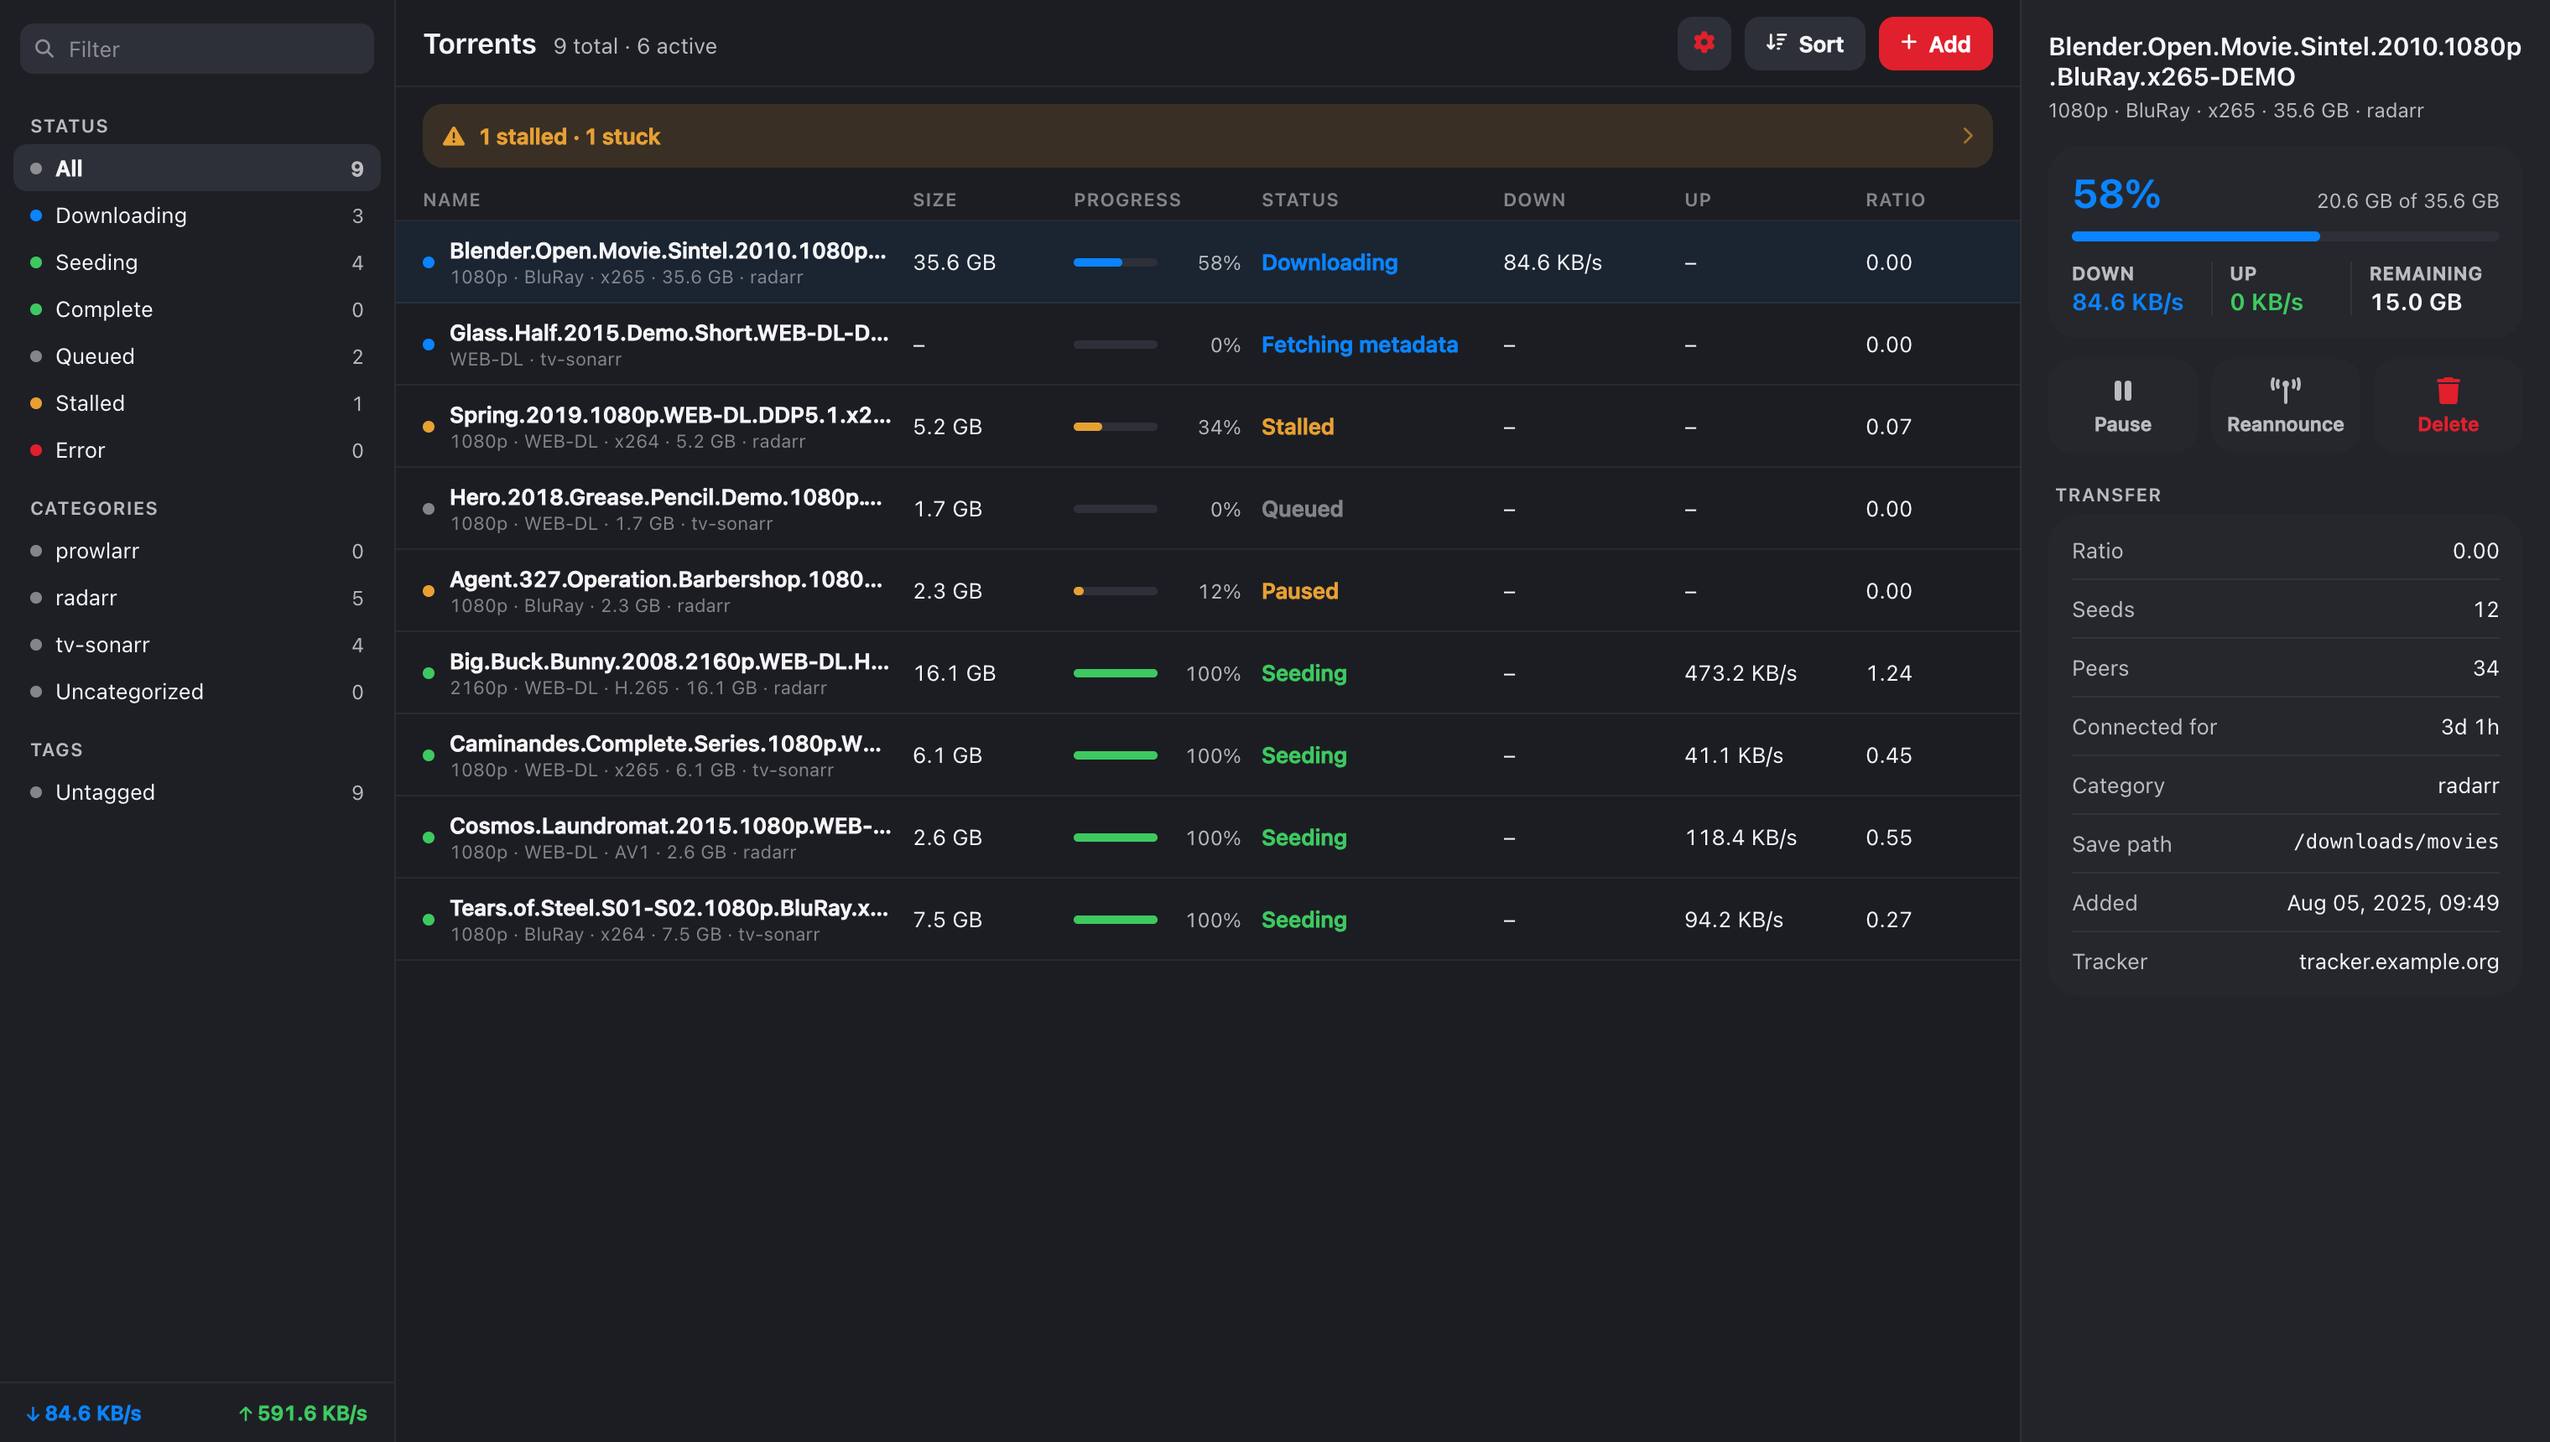
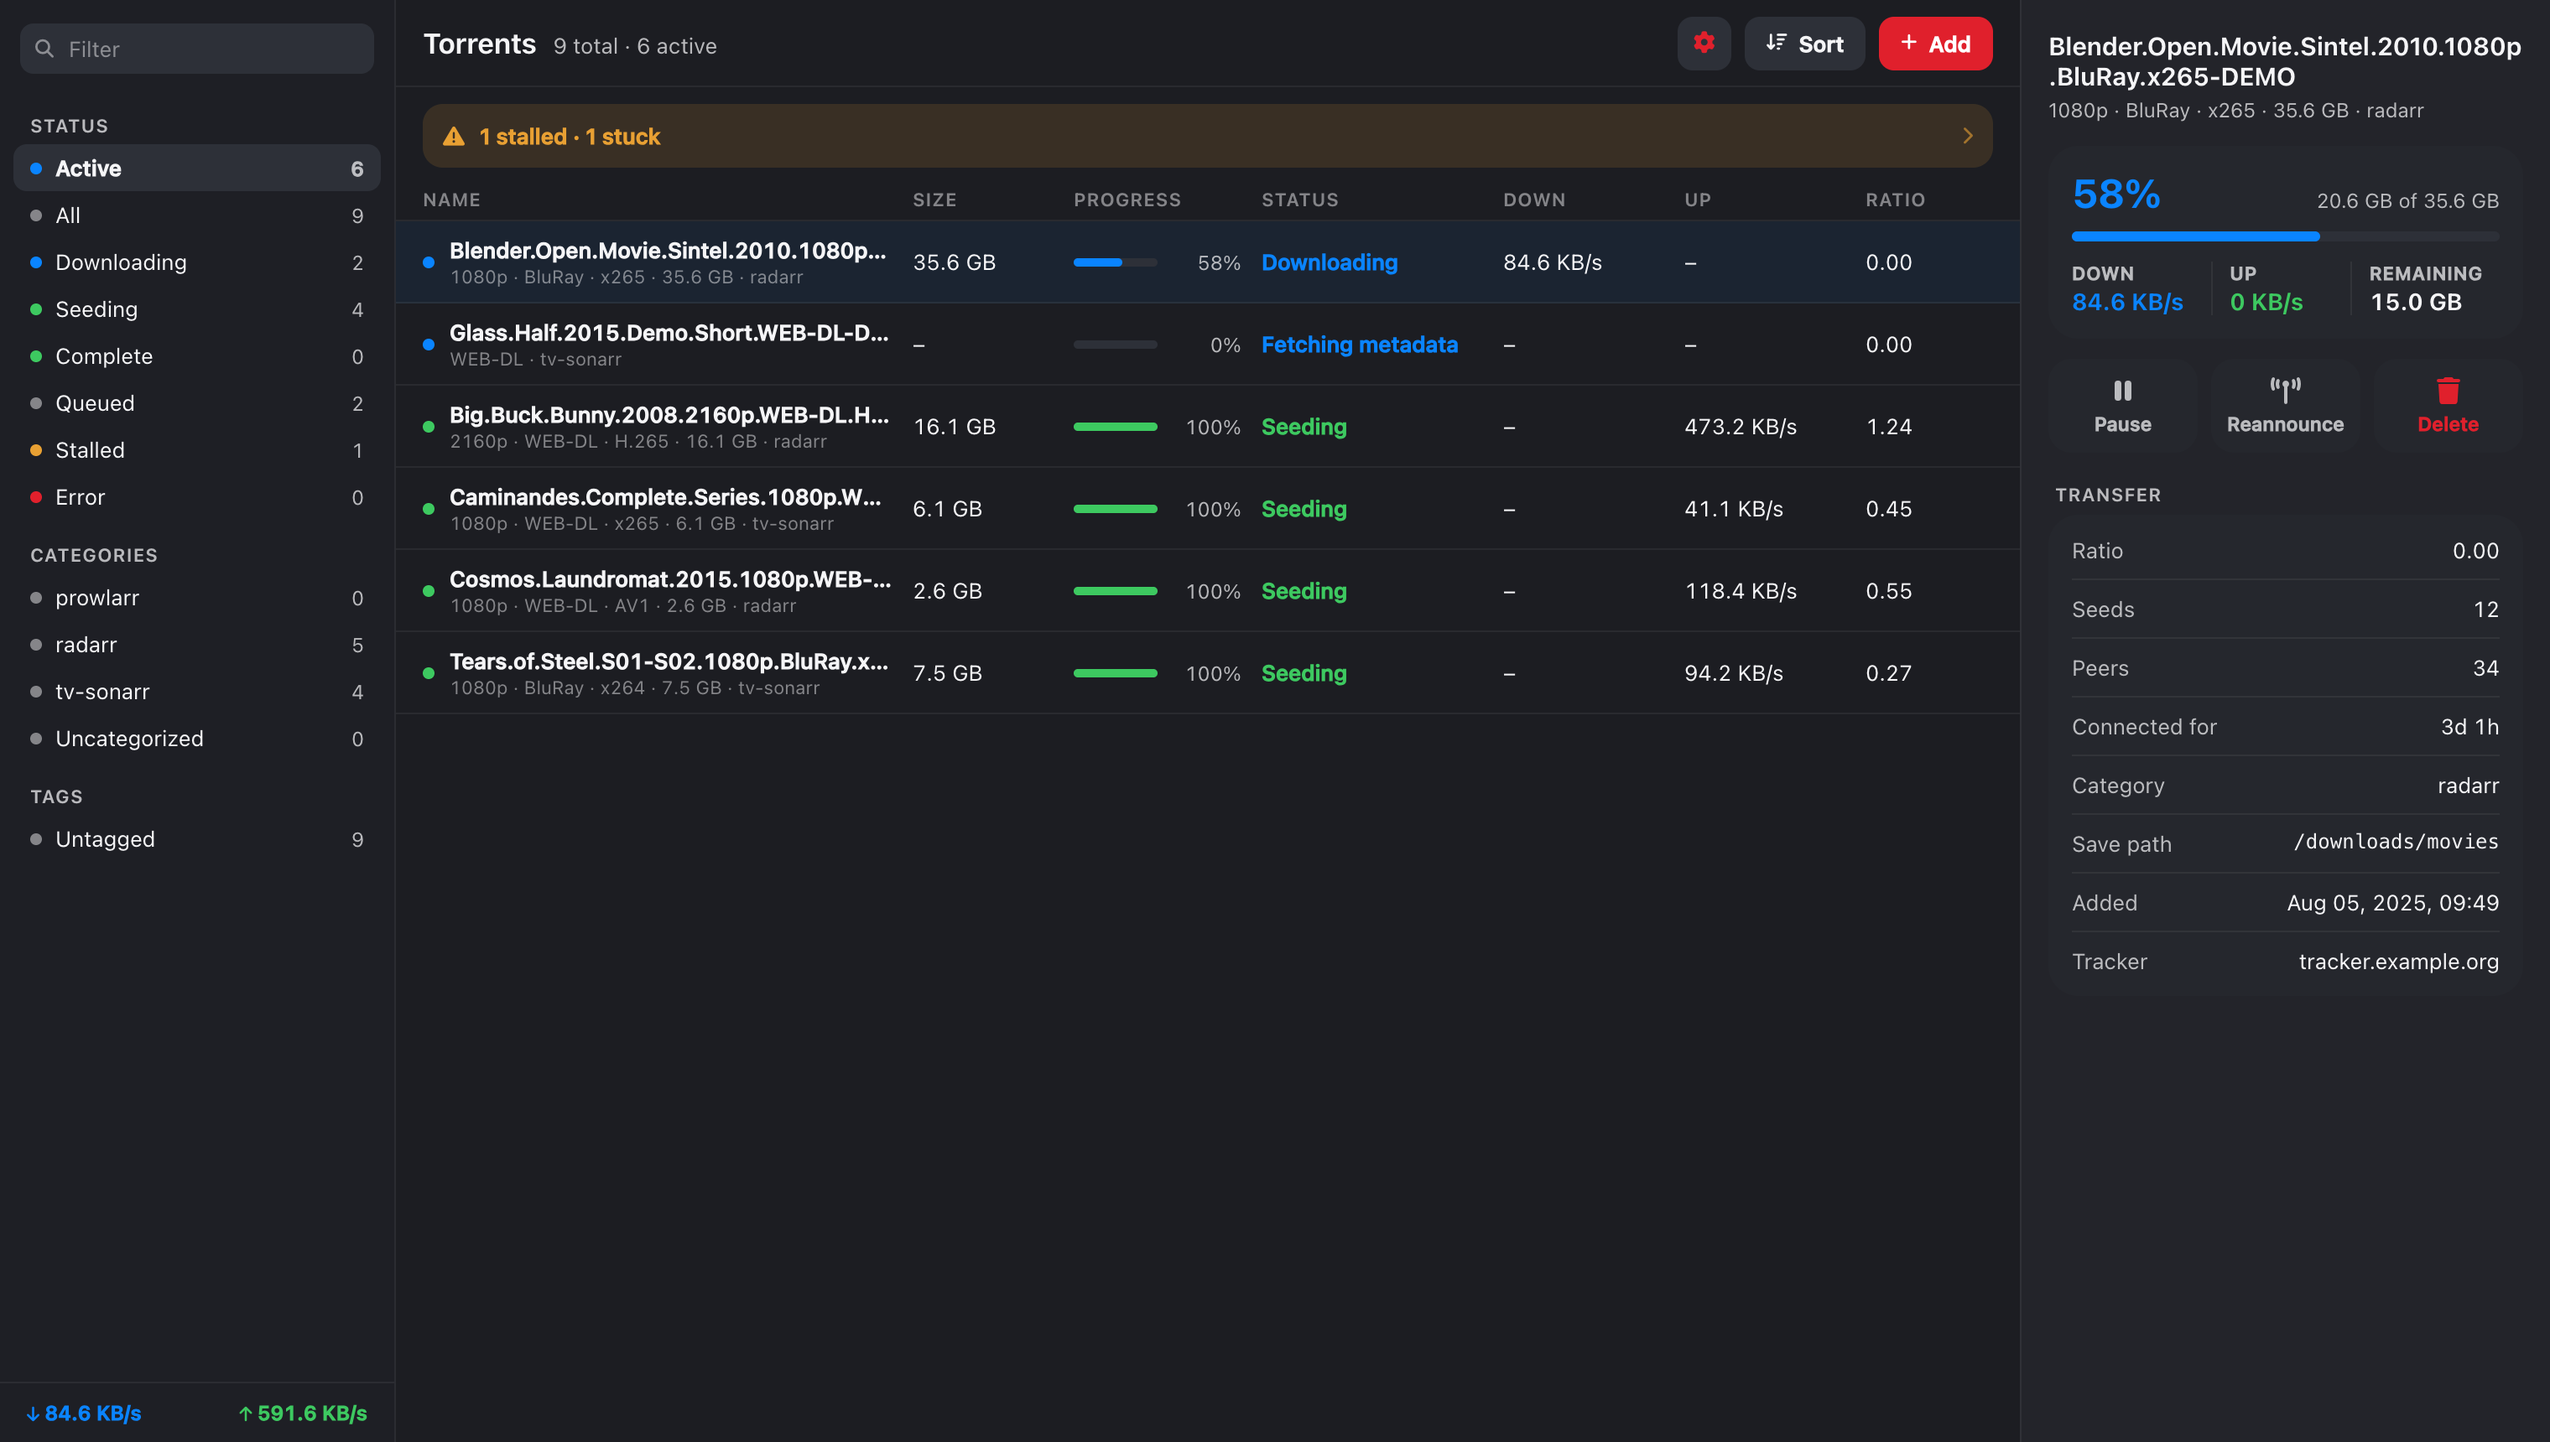
Keep metadata torrents out of the Downloading filter, default desktop to Active
- 'Fetching metadata' counts as Active but no longer as Downloading: nothing is
  being downloaded yet, so it does not belong in a list of downloads
- The desktop sidebar had no Active entry at all and started on All. It now
  leads with Active and selects it by default, matching the phone layout
- Screenshot script kills a leftover Chrome on its debug port first — attaching
  to one silently reused its localStorage and produced a stale Cleanuparr state
  in the committed screenshots

diff --git a/src/app/app.component.ts b/src/app/app.component.ts
@@ -19,7 +19,7 @@ const SORT_LABEL: Record<Sort, string> = {
 const FILTER_FN: Record<Filter, (t: Torrent) => boolean> = {
   all: () => true,
   active: t => t.dlspeed > 0 || t.upspeed > 0 || t.state === 'downloading' || t.state === 'metadata',
-  down: t => t.state === 'downloading' || t.state === 'metadata' || t.state === 'stalled',
+  down: t => t.state === 'downloading' || t.state === 'stalled',
   done: t => t.state === 'completed' || t.state === 'seeding',
   paused: t => t.state === 'queued' || t.state === 'paused',
   seeding: t => t.state === 'seeding',
@@ -71,7 +71,7 @@ export class AppComponent {
   readonly NO_CAT = NO_CAT;
   readonly NO_TAG = NO_TAG;
   readonly filters: Filter[] = ['active', 'all', 'down', 'done', 'paused'];
-  readonly sideFilters: Filter[] = ['all', 'down', 'seeding', 'completed', 'paused', 'stalled', 'error'];
+  readonly sideFilters: Filter[] = ['active', 'all', 'down', 'seeding', 'completed', 'paused', 'stalled', 'error'];
   readonly sorts: Sort[] = ['status', 'name', 'size', 'progress'];
   readonly themes: Theme[] = ['light', 'dark', 'auto'];
   readonly THEME_LABEL: Record<Theme, string> = { light: 'Light', dark: 'Dark', auto: 'Automatic' };
@@ -90,7 +90,7 @@ export class AppComponent {
   readonly closing = signal(false);            // push-screen exit animation
   readonly dtab = signal<'info' | 'files' | 'trackers'>('info');
   readonly filter = signal<Filter>('active');
-  readonly sideFilter = signal<Filter>('all');
+  readonly sideFilter = signal<Filter>('active');
   readonly catFilter = signal<string | null>(null);   // desktop sidebar
   readonly tagFilter = signal<string | null>(null);
   readonly sort = signal<Sort>('status');

diff --git a/design/README.md b/design/README.md
@@ -166,7 +166,8 @@ qBittorrent's `metaDL` into `downloading` made a torrent with no size, no peers 
 progress look like a healthy download):
 * `downloading` → `Downloading` (blue) + `↓ 84.6 KB/s · ETA 4d 8h`
 * `metadata` → `Fetching metadata` (blue) + `for 3d 1h` — no size is known yet, so the
-  tech line omits it and the desktop table shows `–`
+  tech line omits it and the desktop table shows `–`. It counts as *Active* but not as
+  *Downloading*: nothing is being downloaded yet.
 * any downloading torrent at 0 B/s for over 30 min → detail becomes `stuck for 3d 1h`
   (no percentage — the progress ring already carries it, and the English labels would truncate)
 * `seeding` → `Seeding` (green) + `↑ 473.2 KB/s · 263 peers`
@@ -271,7 +272,8 @@ Centred, 56px above the bottom edge, `rgba(30,30,32,0.92)` + blur, white 14/510,
 
 Three columns:
 * **Sidebar 236px** — `rgba(246,246,248,0.92)`, right hairline. Filter field, then groups
-  **STATUS** (All 10, Downloading 1, Seeding 3, Complete 6, Queued 3, Stalled 1, Error 0),
+  **STATUS** (Active first and selected by default, then All 10, Downloading 1, Seeding 3,
+  Complete 6, Queued 3, Stalled 1, Error 0),
   **CATEGORIES** (radarr 6, tv-sonarr 3, prowlarr 0, Uncategorized 1), **TAGS** (Untagged 10).
   Each item: 7px state dot, label, right-aligned count 12px `--t2`. Footer shows Down/Up totals.
 * **Centre** — 52px toolbar ("Torrents" 17/640, "10 total · 1 active" 13px `--t2`, right
